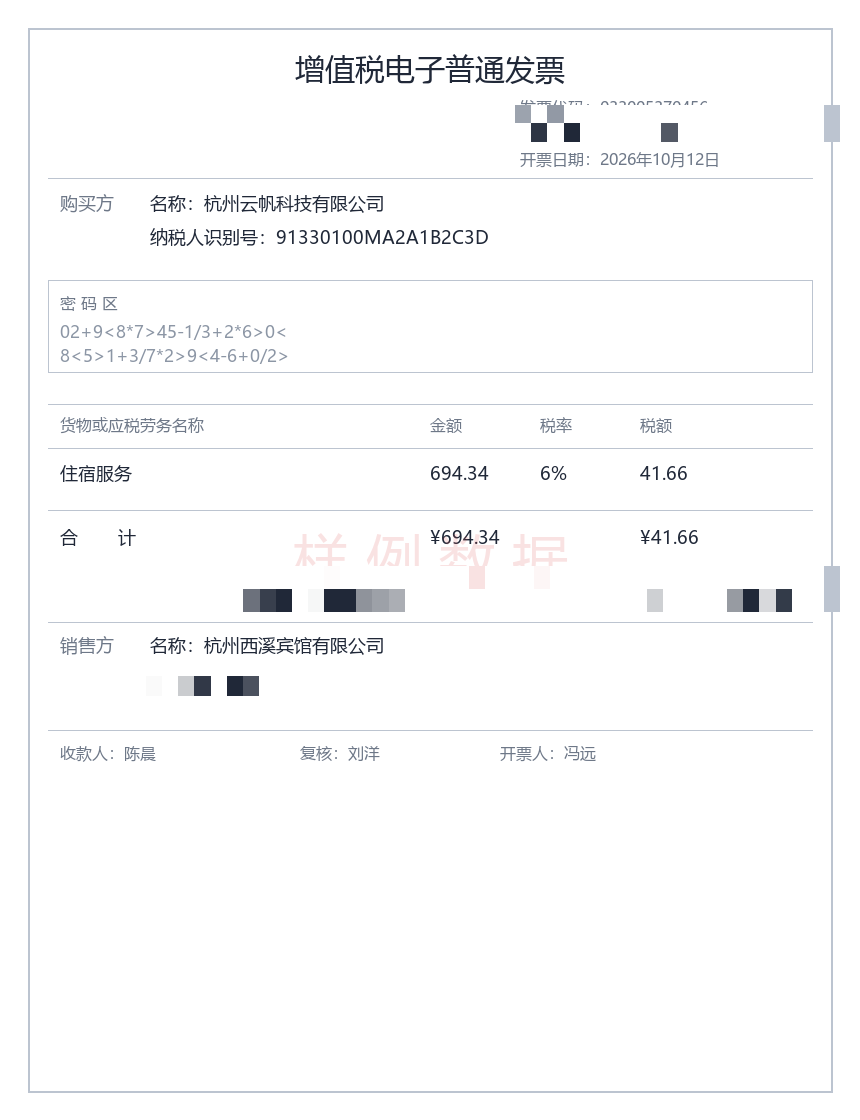
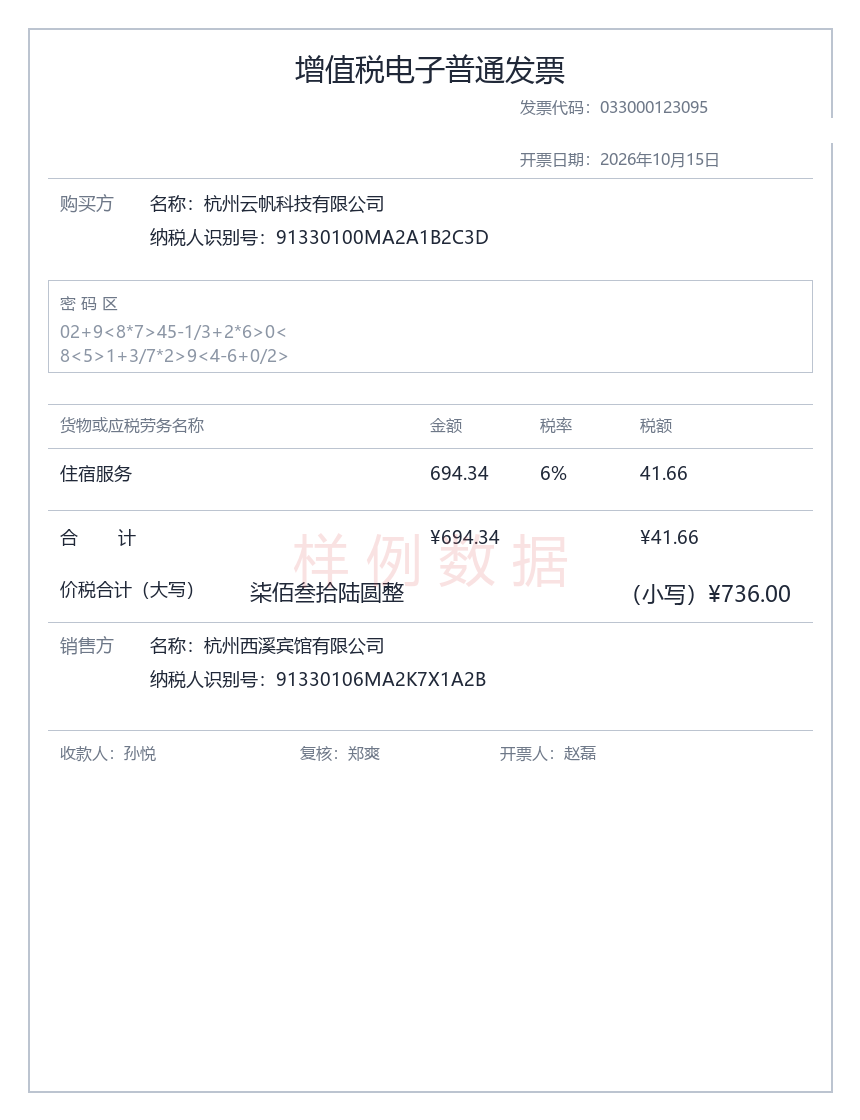
fix: R2专用样例（正常置信度+发票号码留白）与非发票R0口径对齐B复核意见

diff --git a/backend/scripts/make_dataset.py b/backend/scripts/make_dataset.py
@@ -7,7 +7,8 @@
   - 23 张增广票（10 噪声 / 8 旋转 / 5 折痕，基于干净票，要素与母票相同）
   - 埋雷票（分布于干净/增广批次，母子同雷）：
       R1 重复 1 张（发票号 66472890）
-      R2 关键字段缺失 2 张（低置信度票中销售方税号区马赛克，GT 记 null）
+      R2 关键要素缺失 2 张（正常干净票渲染，但发票号码区域留白不印数字，
+         GT 的 invoice_number 记 null，其余字段全部合规）
       R3 抬头错 2 张
       R4 超期 2 张（开票日期 ≤ 2026-09-20）
       R5 超标 1 张（住宿 1280）
@@ -15,18 +16,19 @@
       R7 税率异常 1 张（住宿开 13%，与类目法定档位 {6%,3%,1%} 不符；
          含税金额 ≤ 800 保证不触发 R5，日期在窗口内保证不触发 R4——只命中 R7）
       R8 敏感类目 2 张（项目含 "酒水" / "烟"，除敏感词外其余字段全部合规）
-  - 3 张低置信度（号码区 + 价税合计区重度像素化）→ manual
-      其中 2 张叠加 R2（销售方税号区马赛克，GT 记 null），
-      剩 1 张为纯 R0 路径（hit_rules=["R0"]）
+  - 1 张纯低置信度（号码区 + 价税合计区重度像素化）→ manual
+      （纯 R0 路径，hit_rules=["R0"]）
   - 2 张非发票（复制 samples/non_invoice_1.jpg、non_invoice_2.jpg）→ manual
+      （hit_rules=["R0"]，"这张图里没有可识别的发票"）
 
 税率口径：住宿/餐饮/办公 = 0.06，交通 = 0.09，招待/其他按服务 0.06。
 
 评测基准日：每条 ground truth 带 "eval_date": "2026-11-06"；非 R4 票开票日期
 采样自 2026-10-10 ~ 2026-11-05（均在基准日前 30 天内），R4 票保持 ≤ 2026-09-20。
 
-发票号码：38 张发票票号码互不相同——增广子票重新随机号码，仅继承母票其余字段；
-R1 重复票的"重复"针对历史报销记录（66472890），数据集内部号码唯一。
+发票号码：36 个非空号码互不相同——增广子票重新随机号码，仅继承母票其余字段；
+R1 重复票的"重复"针对历史报销记录（66472890），数据集内部号码唯一；
+2 张 R2 票号码区域留白，GT 的 invoice_number 为 null。
 
 期望结论口径（与规则引擎等级对齐，评测时以 hit_rules 为准）：
   pass    无雷票（干净票及其增广）
@@ -84,7 +86,7 @@ EVAL_DATE = "2026-11-06"
 
 # 每种雷型应命中的张数（自查用）
 EXPECTED_RULE_COUNTS = {"R1": 1, "R2": 2, "R3": 2, "R4": 2, "R5": 1, "R6": 2, "R7": 1, "R8": 2}
-EXPECTED_AUGMENT_COUNTS = {"none": 12, "noise": 10, "rotate": 8, "fold": 5, "low_confidence": 3}
+EXPECTED_AUGMENT_COUNTS = {"none": 14, "noise": 10, "rotate": 8, "fold": 5, "low_confidence": 1}
 
 SELLERS = {
     "住宿": [("杭州西溪宾馆有限公司", "91330106MA2K7X1A2B"), ("宁波东港大酒店有限公司", "91330203MA2H5T8Q1C")],
@@ -409,7 +411,7 @@ def truth_entry(
     fields: dict,
     augment: str,
     mines: list[str],
-    seller_tax_id_missing: bool = False,
+    invoice_number_missing: bool = False,
 ) -> dict:
     return {
         "file": file,
@@ -417,11 +419,11 @@ def truth_entry(
         "eval_date": EVAL_DATE,
         # ---- 以下键名与 backend/app/schemas.py 的 InvoiceFields 严格一致 ----
         "invoice_code": fields["invoice_code"],
-        "invoice_number": fields["invoice_number"],
+        # R2：票面号码区域留白，识别不出来 → null（看不见的字段不该被猜）
+        "invoice_number": None if invoice_number_missing else fields["invoice_number"],
         "invoice_date": fields["invoice_date"],
         "seller_name": fields["seller_name"],
-        # R2：票面税号区被马赛克，识别不出来 → null（看不见的字段不该被猜）
-        "seller_tax_id": None if seller_tax_id_missing else fields["seller_tax_id"],
+        "seller_tax_id": fields["seller_tax_id"],
         "buyer_name": fields["buyer_name"],
         "buyer_tax_id": fields["buyer_tax_id"],
         "amount_excl_tax": fields["amount_excl_tax"],
@@ -474,39 +476,48 @@ def main() -> None:
             save(cimg, cfile)
             truth.append(truth_entry(cfile, child_fields, aug, p["mines"]))
 
-    # ---- 3 张低置信度：号码区 + 价税合计区重模糊 ----
-    # 其中前 2 张叠加 R2：销售方税号区一并马赛克，GT 的 seller_tax_id 记 null；
-    # 剩 1 张为纯 R0 路径（识别置信度不足转人工），hit_rules=["R0"]。
-    low_conf_specs = [
-        {"category": "住宿", "incl": 736.00, "r2": True},
-        {"category": "交通", "incl": 118.30, "seller_idx": 1, "r2": True},
-        {"category": "办公", "incl": 265.00, "seller_idx": 1, "r2": False},
+    # ---- 2 张 R2 专用样例 + 1 张纯低置信度（R0） ----
+    # R2：正常干净票渲染（无马赛克），但发票号码区域留白不印数字；
+    #     GT 的 invoice_number 记 null，其余字段全部合规——只命中 R2。
+    r2_specs = [
+        {"category": "住宿", "incl": 736.00},
+        {"category": "交通", "incl": 118.30, "seller_idx": 1},
     ]
-    for spec in low_conf_specs:
+    for spec in r2_specs:
         seq += 1
         file = f"ds_{seq:03d}.png"
-        is_r2 = spec.pop("r2")
         fields = build_invoice(**spec)
         img = render_invoice(fields, file)
         boxes = layout(len(fields["items"]))
-        blur_boxes = [boxes["number"], boxes["incl"]]
-        if is_r2:
-            blur_boxes.append(boxes["seller_tax_band"])
-        img = blur_region(img, blur_boxes, block=rng.randint(16, 20))
+        # 号码区域留白：白色矩形只盖"发票号码：xxxxxxxx"整行（不碰上一行的发票代码）
+        ImageDraw.Draw(img).rectangle((515, 118, 840, 142), fill=(255, 255, 255))
         save(img, file)
-        truth.append(
-            truth_entry(
-                file, fields, "low_confidence",
-                ["R2"] if is_r2 else ["R0"],
-                seller_tax_id_missing=is_r2,
-            )
-        )
+        truth.append(truth_entry(file, fields, "none", ["R2"], invoice_number_missing=True))
+
+    # R0：纯低置信度，号码区 + 价税合计区重度像素化，转人工
+    r0_spec = {"category": "办公", "incl": 265.00, "seller_idx": 1}
+    seq += 1
+    file = f"ds_{seq:03d}.png"
+    fields = build_invoice(**r0_spec)
+    img = render_invoice(fields, file)
+    boxes = layout(len(fields["items"]))
+    img = blur_region(img, [boxes["number"], boxes["incl"]], block=rng.randint(16, 20))
+    save(img, file)
+    truth.append(truth_entry(file, fields, "low_confidence", ["R0"]))
 
     # ---- 2 张非发票 ----
     for name in ("non_invoice_1.jpg", "non_invoice_2.jpg"):
         shutil.copy2(SAMPLES_DIR / name, OUT_DIR / name)
         print(f"copied    {name}")
-        truth.append({"file": name, "is_invoice": False, "eval_date": EVAL_DATE, "expected_verdict": "manual"})
+        truth.append(
+            {
+                "file": name,
+                "is_invoice": False,
+                "eval_date": EVAL_DATE,
+                "expected_verdict": "manual",
+                "hit_rules": ["R0"],
+            }
+        )
 
     (OUT_DIR / "ground_truth.json").write_text(
         json.dumps(truth, ensure_ascii=False, indent=2), encoding="utf-8"
@@ -571,10 +582,13 @@ def self_check(truth: list[dict]) -> None:
         elif not (eval_d - dt.timedelta(days=30) < d <= eval_d):
             errors.append(f"{t['file']} 日期 {t['invoice_date']} 不在基准日前 30 天内")
 
-    # 3c) 发票号码唯一（R1 的"重复"针对历史记录，数据集内部号码不重复）
-    numbers = [t["invoice_number"] for t in invoices]
+    # 3c) 发票号码唯一（R1 的"重复"针对历史记录；R2 票号码为 null，不参与唯一性）
+    numbers = [t["invoice_number"] for t in invoices if t["invoice_number"] is not None]
     if len(set(numbers)) != len(numbers):
         errors.append("invoice_number 存在重复")
+    null_numbers = sum(1 for t in invoices if t["invoice_number"] is None)
+    if null_numbers != 2:
+        errors.append(f"invoice_number 为 null 的票 {null_numbers} 张 != 2（应恰好是 2 张 R2）")
 
     # 4) 构成数量
     aug_counts = Counter(t["augment"] for t in invoices)
@@ -612,11 +626,11 @@ def self_check(truth: list[dict]) -> None:
         ):
             errors.append(f"{t['file']} R7 规格不符（住宿+13%，含税须 ≤800 且不超期，保证只命中 R7）")
         if "R2" in t["hit_rules"] and not (
-            t["seller_tax_id"] is None and t["augment"] == "low_confidence"
+            t["invoice_number"] is None and t["augment"] == "none" and t["seller_tax_id"]
         ):
-            errors.append(f"{t['file']} R2 规格不符（应 seller_tax_id=null 且低置信度）")
-        if t["augment"] == "low_confidence" and "R2" not in t["hit_rules"] and t["seller_tax_id"] is None:
-            errors.append(f"{t['file']} 非 R2 低置信度票 seller_tax_id 不应为 null")
+            errors.append(f"{t['file']} R2 规格不符（应 invoice_number=null、augment=none、税号正常）")
+        if t["augment"] == "low_confidence" and "R2" in t["hit_rules"]:
+            errors.append(f"{t['file']} R2 票不应再做低置信度增广")
         if "R8" in t["hit_rules"]:
             text = " ".join(i["name"] for i in t["items"])
             if "酒水" not in text and "烟" not in text:
@@ -634,6 +648,8 @@ def self_check(truth: list[dict]) -> None:
     for t in non_invoices:
         if t["expected_verdict"] != "manual":
             errors.append(f"{t['file']} 非发票 verdict 应为 manual")
+        if t.get("hit_rules") != ["R0"]:
+            errors.append(f"{t['file']} 非发票 hit_rules 应为 ['R0']")
 
     print("\n================ 自查 ================")
     print(f"图片总数        : {len(images)} (发票 {len(invoices)}, 非发票 {len(non_invoices)})")

diff --git a/backend/tests/test_dataset.py b/backend/tests/test_dataset.py
@@ -138,21 +138,23 @@ def test_eval_date_and_invoice_date_window(truth, invoices):
             )
 
 
-# 5b) 全部发票票 invoice_number 互不相同（R1 的重复针对历史记录，不在数据集内）
+# 5b) 非空发票号码互不相同（R1 的重复针对历史记录；2 张 R2 票号码为 null 不参与）
 def test_invoice_numbers_are_unique(invoices):
-    numbers = [t["invoice_number"] for t in invoices]
-    assert len(set(numbers)) == len(numbers) == 38
+    numbers = [t["invoice_number"] for t in invoices if t["invoice_number"] is not None]
+    assert len(set(numbers)) == len(numbers) == 36
+    assert sum(1 for t in invoices if t["invoice_number"] is None) == 2
     assert "66472890" in numbers, "R1 票号码应为 66472890"
 
 
-# 5c) R2 票规格：seller_tax_id 为 null 且为低置信度票；其余票 seller_tax_id 非空
-def test_r2_seller_tax_id_null(invoices):
+# 5c) R2 票规格：invoice_number 为 null、augment=="none"、税号正常；其余票号码非空
+def test_r2_invoice_number_null(invoices):
     for t in invoices:
         if "R2" in t["hit_rules"]:
-            assert t["seller_tax_id"] is None, f"{t['file']} R2 票 seller_tax_id 应为 null"
-            assert t["augment"] == "low_confidence", f"{t['file']} R2 票应为低置信度"
+            assert t["invoice_number"] is None, f"{t['file']} R2 票 invoice_number 应为 null"
+            assert t["augment"] == "none", f"{t['file']} R2 票应为干净票渲染（augment=none）"
+            assert t["seller_tax_id"], f"{t['file']} R2 票 seller_tax_id 应为正常合法值"
         else:
-            assert t["seller_tax_id"], f"{t['file']} 非 R2 票 seller_tax_id 不应为空"
+            assert t["invoice_number"], f"{t['file']} 非 R2 票 invoice_number 不应为空"
 
 
 # 5) 雷型计数对拍（R0 是纯低置信度票的固有路径，单独核 1 张，不计入雷型表）
@@ -179,11 +181,13 @@ def test_r6_items_sum_mismatch_only_on_r6(invoices):
             assert items_sum == excl, f"{t['file']} 无 R6 但明细合计 {items_sum} != {excl}"
 
 
-# 8) 口径断言：R1/R3→reject，R4-R8→suspect，低置信度/非发票→manual
+# 8) 口径断言：R1/R3→reject，R4-R8→suspect，R2→manual，
+#    纯 R0 低置信度票与非发票→manual 且 hit_rules==["R0"]
 def test_verdict_policy(truth):
     for t in truth:
         if not t.get("is_invoice"):
             assert t["expected_verdict"] == "manual", f"{t['file']} 非发票应 manual"
+            assert t["hit_rules"] == ["R0"], f"{t['file']} 非发票 hit_rules 应为 ['R0']"
             continue
         rules = t["hit_rules"]
         if rules:
@@ -198,7 +202,7 @@ def test_verdict_policy(truth):
         )
 
 
-# 附带：增广构成对拍（12 干净 / 10 噪声 / 8 旋转 / 5 折痕 / 3 低置信度）
+# 附带：增广构成对拍（14 干净含 2 张 R2 / 10 噪声 / 8 旋转 / 5 折痕 / 1 纯低置信度）
 def test_augment_composition(invoices):
     counts = Counter(t["augment"] for t in invoices)
-    assert dict(counts) == {"none": 12, "noise": 10, "rotate": 8, "fold": 5, "low_confidence": 3}
+    assert dict(counts) == {"none": 14, "noise": 10, "rotate": 8, "fold": 5, "low_confidence": 1}
